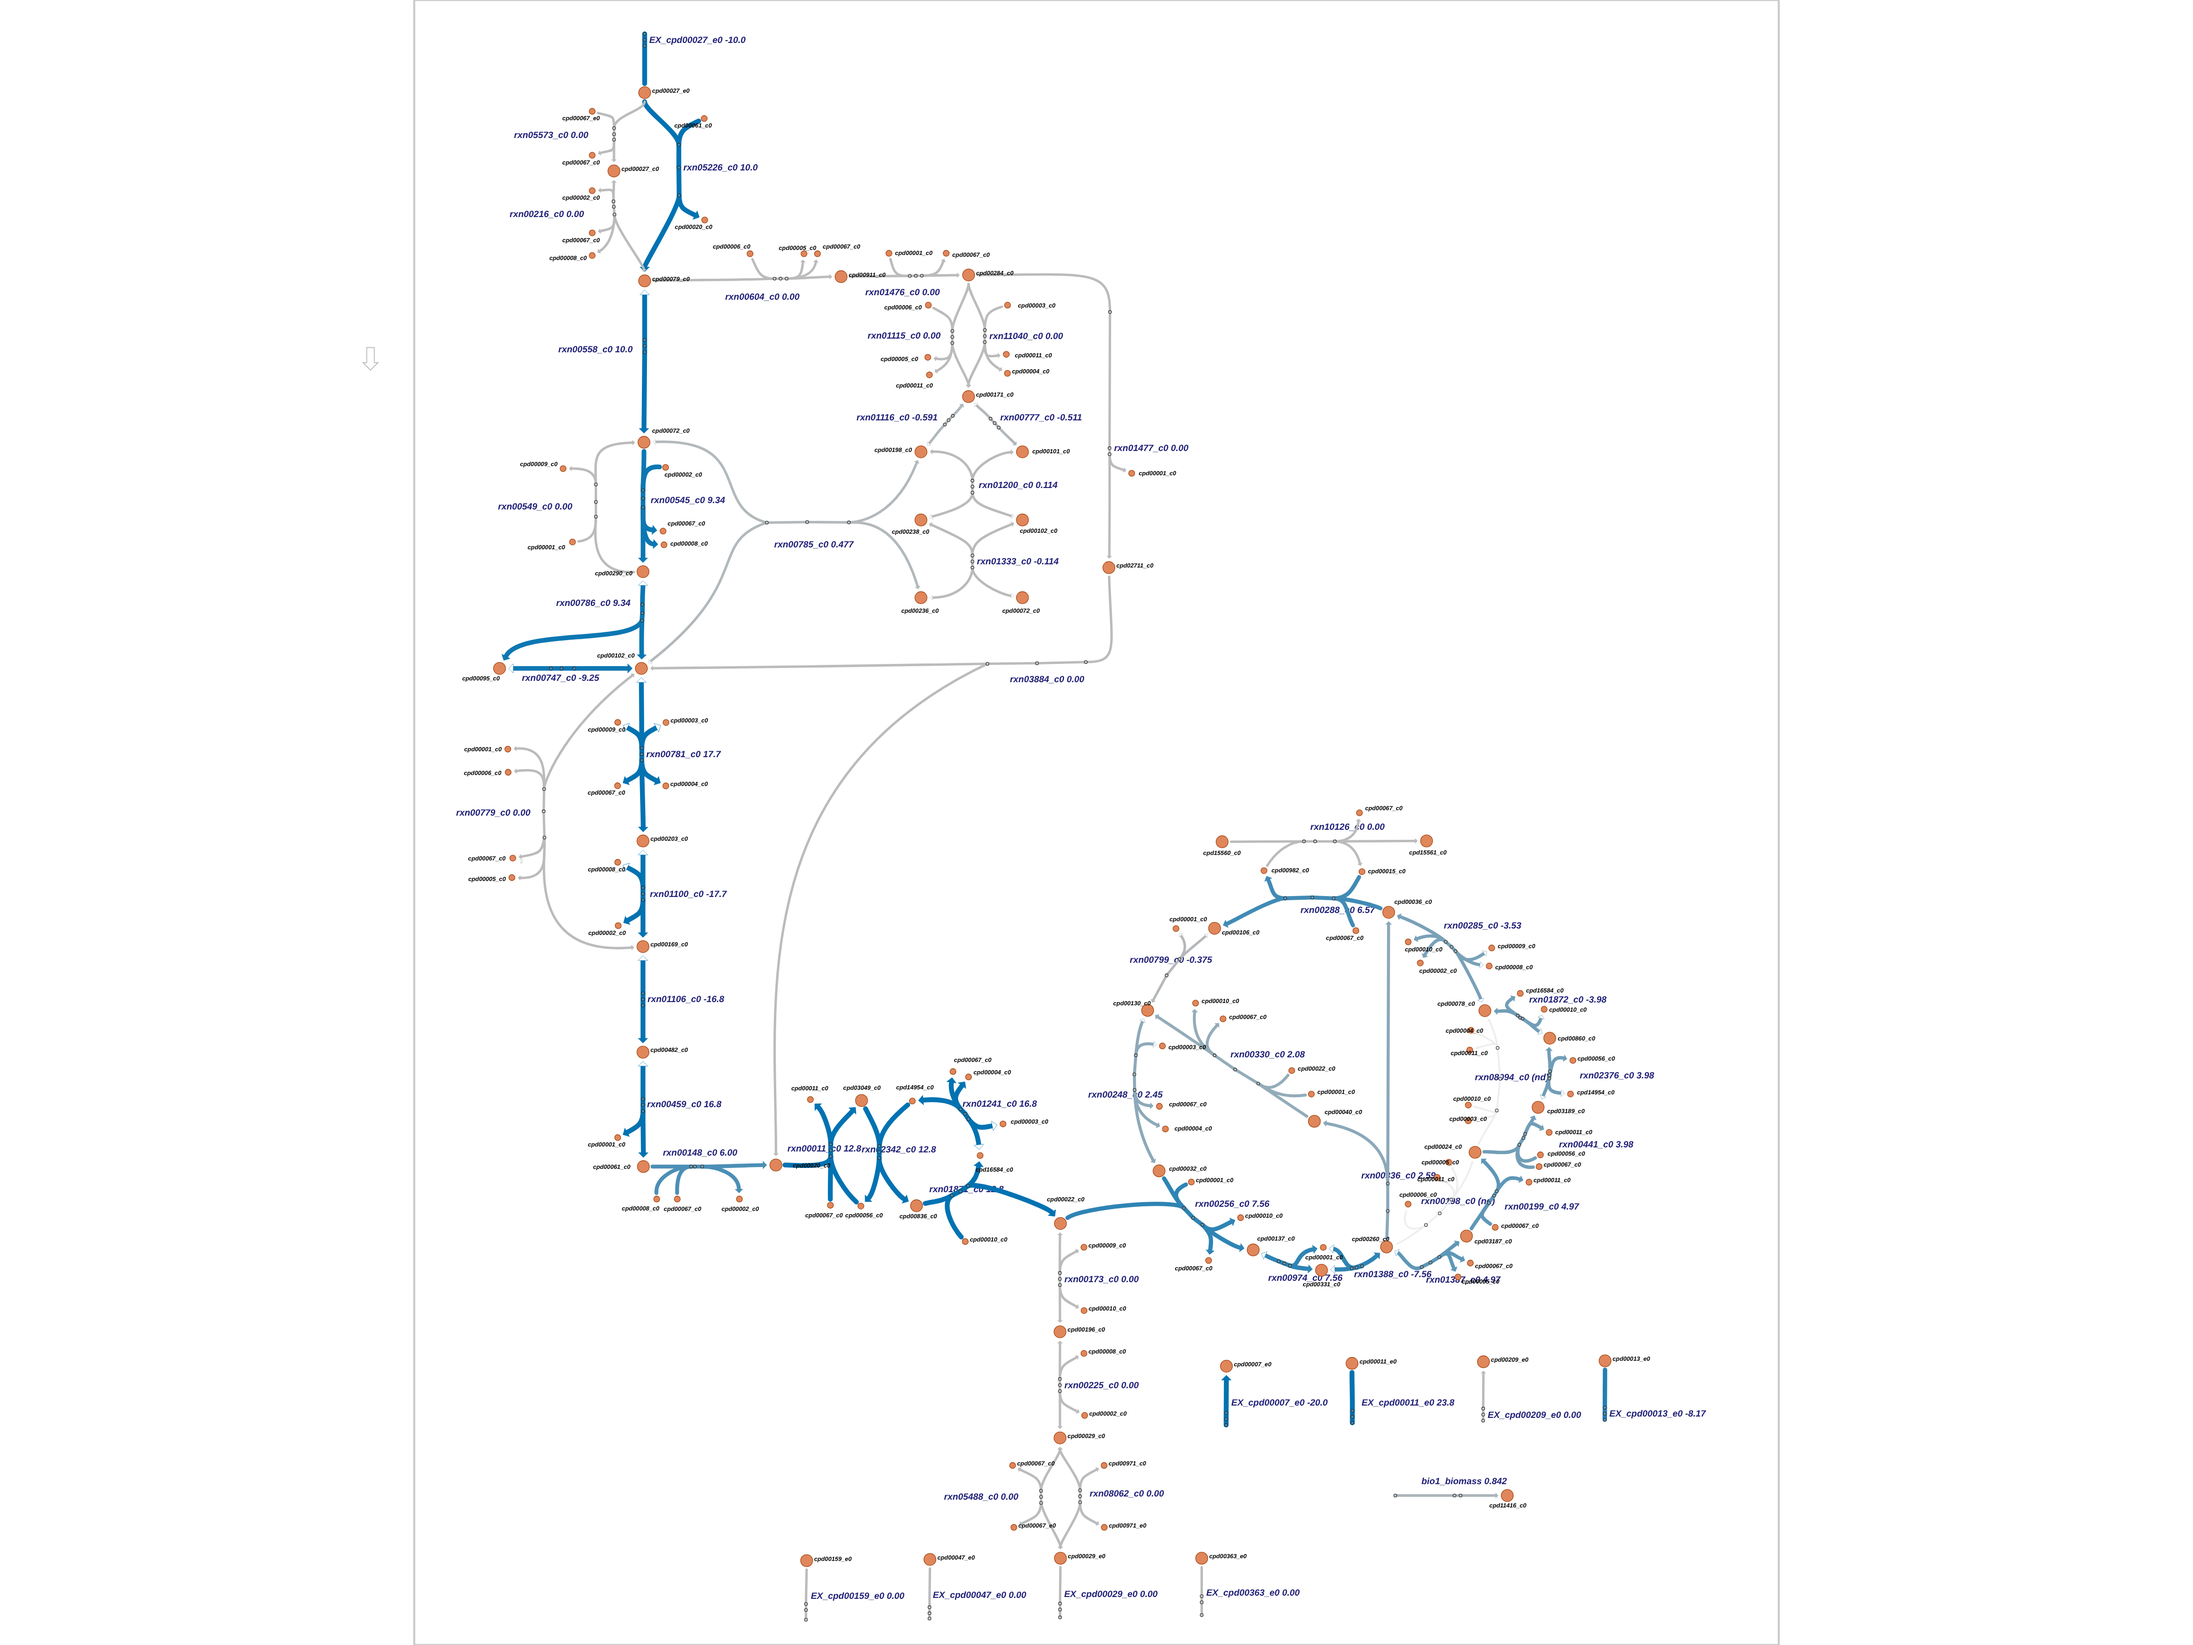
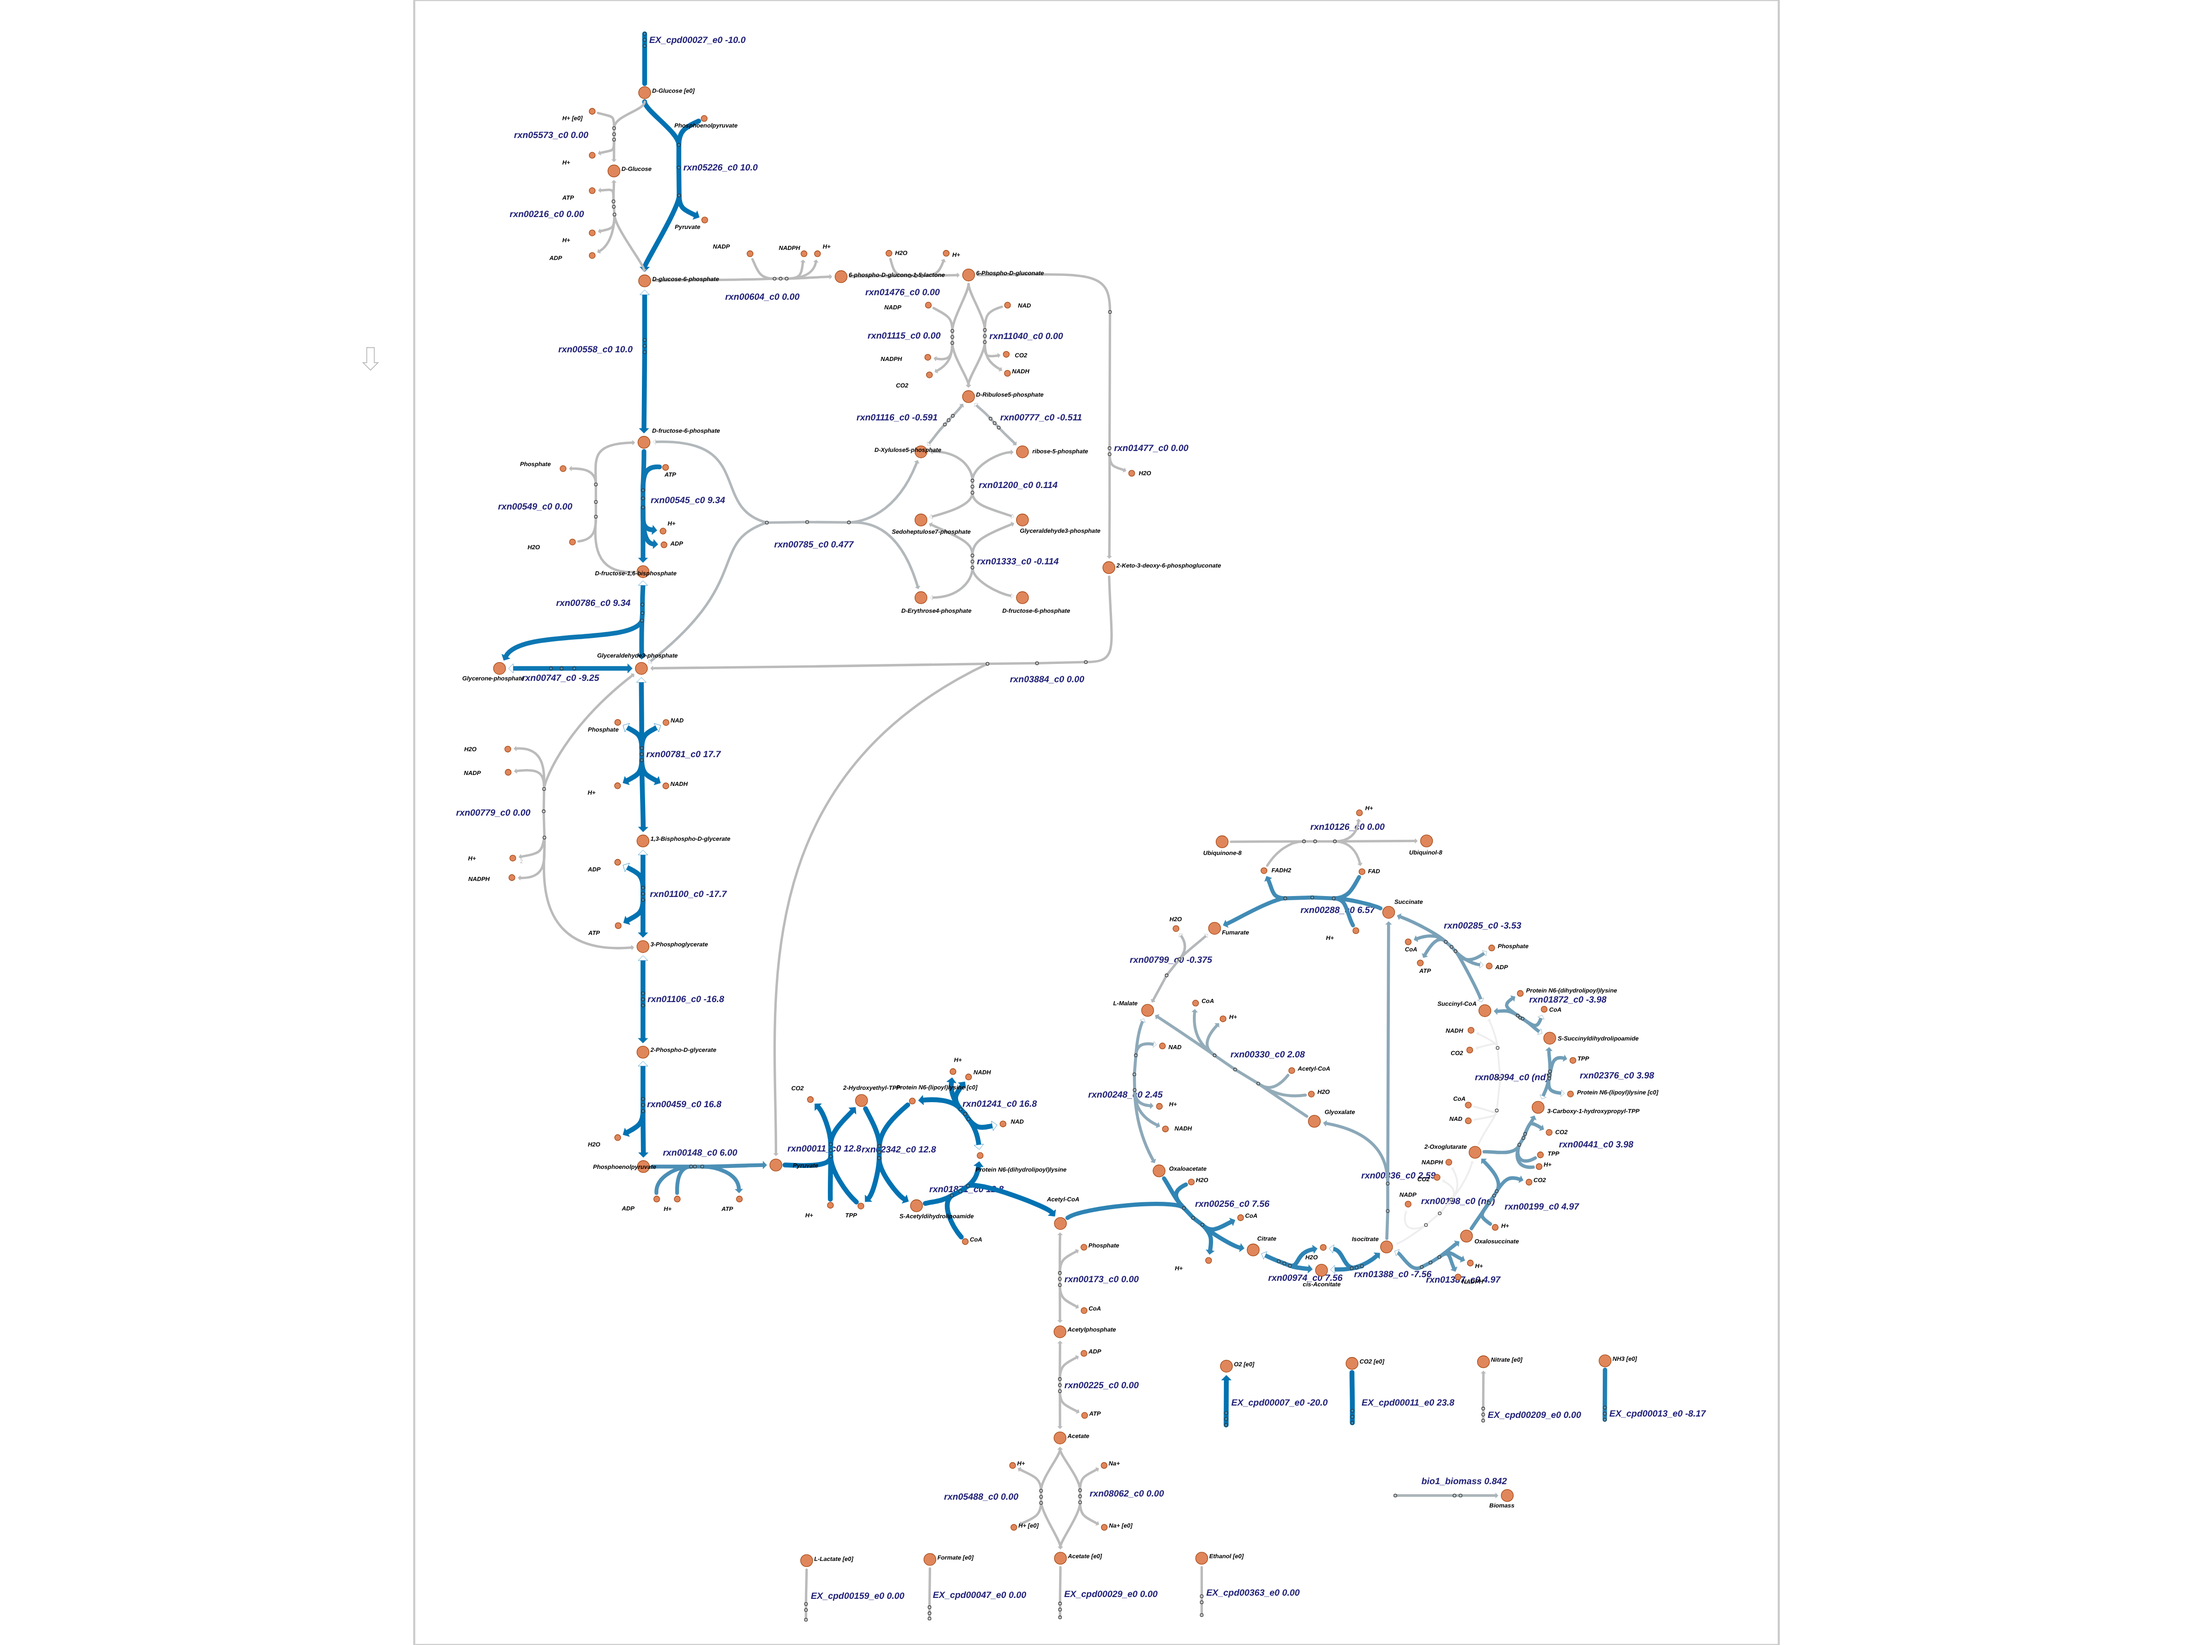
feat: use metabolite names

Changed region(s): [[0.7188, 0.6533, 0.75, 0.6844]]

diff --git a/code/simulations/curation_history_maps/make_maps.py b/code/simulations/curation_history_maps/make_maps.py
@@ -49,6 +49,9 @@ BUILDER_OPTIONS = {
     "never_ask_before_quit": True,
     "menu": "zoom",
     "enable_editing": False,
+    # Label every node by its "name". relabel_map() sets each reaction's name
+    # to its ModelSEED ID; metabolites keep the names stored in the map.
+    "identifiers_on_map": "name",
 }
 
 # Escher's own colour legend, menus and buttons are HTML laid over the map;
@@ -60,13 +63,28 @@ svg:has(g.reaction), svg:has(g.reaction) * { visibility: visible !important; }
 """
 
 
+def relabel_map(escher_map: list) -> list:
+    """Label reactions by ModelSEED ID; metabolites keep their stored names.
+
+    Escher labels both reactions and metabolites from the same field
+    (``identifiers_on_map``), so to mix the two, each reaction's ``name`` is
+    overwritten with its ID. Metabolite names are the ones saved in the map.
+    """
+    _, body = escher_map
+    for reaction in body["reactions"].values():
+        reaction["name"] = reaction["bigg_id"]
+    return escher_map
+
+
 def build_map(row: pd.Series, out_dir: Path) -> Path:
     """Write the Escher map for one row of versions.tsv as standalone HTML."""
     stem = f"{row['change']}_{row['label']}"
     with open(RESULTS_DIR / f"{stem}_fluxes.json") as f:
         fluxes = json.load(f)
+    with open(MAP_DIR / row["escher_map"]) as f:
+        escher_map = relabel_map(json.load(f))
     builder = Builder(
-        map_json=str(MAP_DIR / row["escher_map"]),
+        map_json=json.dumps(escher_map),
         reaction_data=fluxes,
         **BUILDER_OPTIONS,
     )

diff --git a/code/simulations/curation_history_maps/README.md b/code/simulations/curation_history_maps/README.md
@@ -35,6 +35,9 @@ python code/simulations/curation_history_maps/make_maps.py
   before the standard-GEM rename). Media come from the current `tools.media`,
   and the carbon source is added at a fixed carbon uptake (60 mmol C/gDW/h,
   the same convention as `simulations/pFBA`).
+- **Labels.** Reactions are labelled with their ModelSEED ID (swapped in
+  memory; the map files in `code/escher/` are not changed) and metabolites with
+  the descriptive names stored in the map files.
 - **Fixed colour scale.** `REACTION_SCALE` in `make_maps.py` uses absolute flux
   values, not min/max, so a flux gets the same colour and width in every panel.
   Colours are from the Okabe-Ito palette. Width carries the same information as
